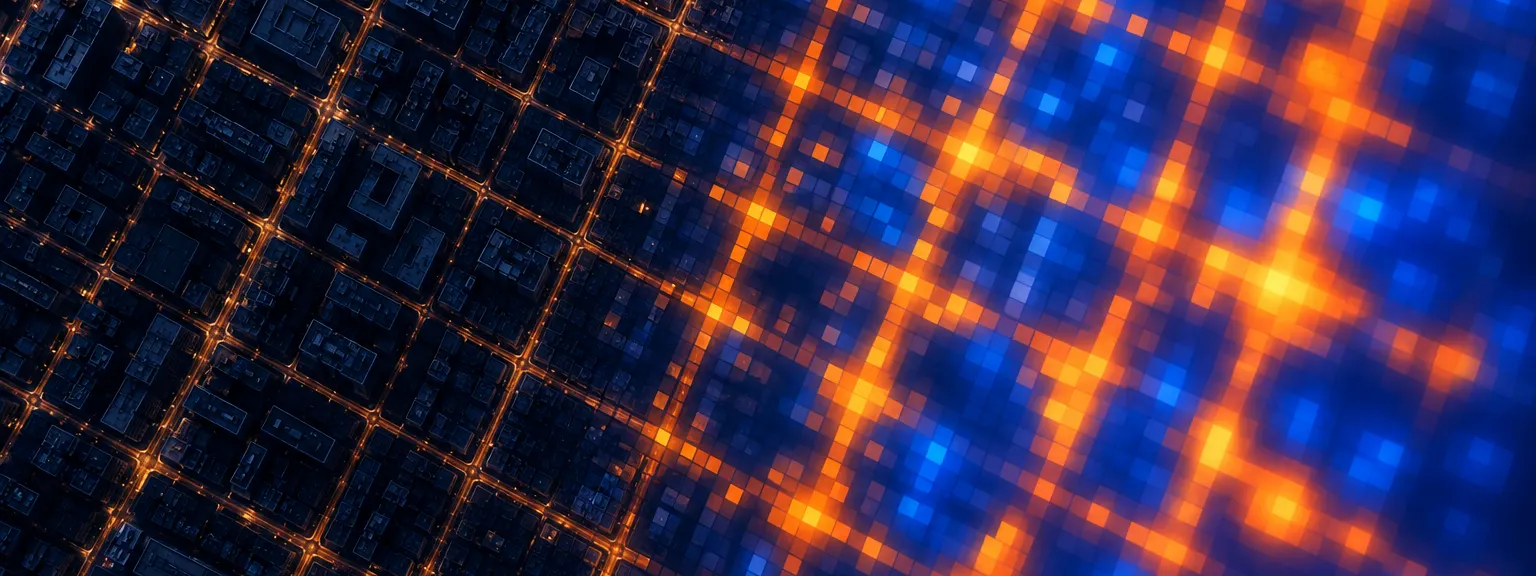
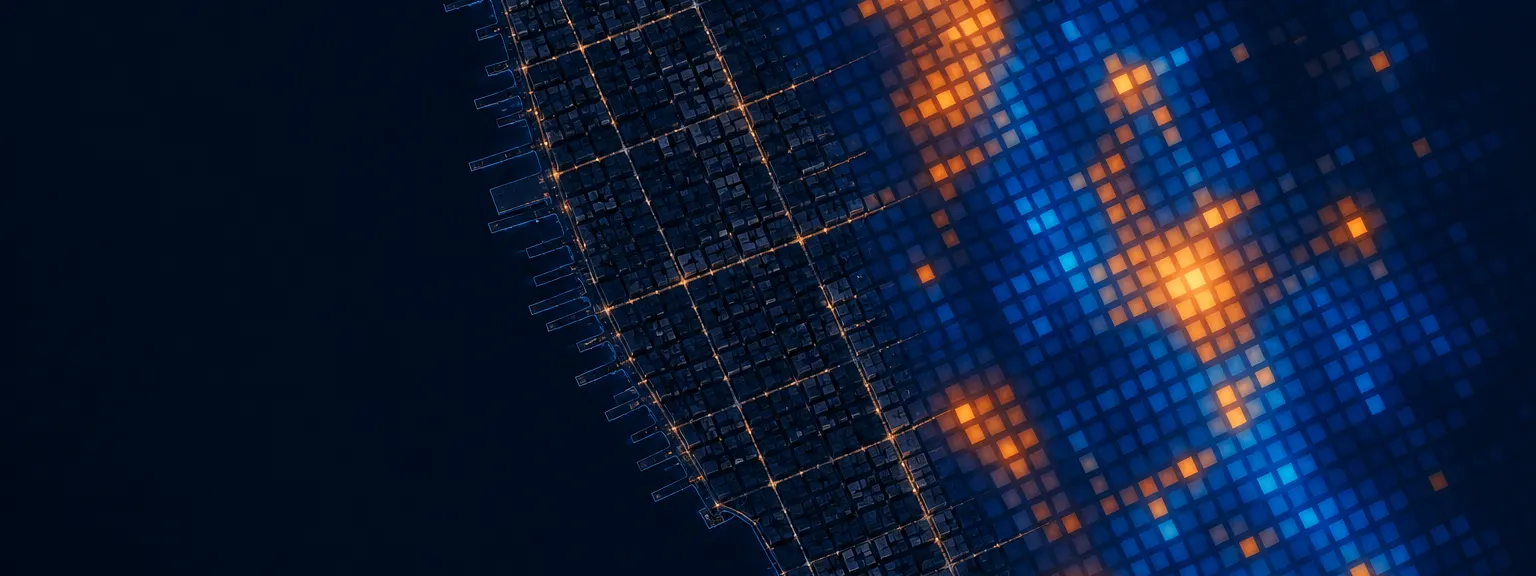
Write-up: new grid-to-heatmap illustration

diff --git a/docs/blog/index.html b/docs/blog/index.html
@@ -369,7 +369,7 @@ footer.end { max-width: var(--measure); margin: 56px auto 0; padding-top: 18px; 
 </ul>
 
 <figure class="strip breakout">
-  <img src="img/grid-heatmap.webp" width="1536" height="576" loading="lazy" alt="Illustration: a night aerial of city blocks on the left dissolving into glowing orange and blue squares on the right, like a demand heatmap.">
+  <img src="img/grid-heatmap.webp" width="1536" height="576" loading="lazy" alt="Illustration: Manhattan's west side and street grid at night, the blocks turning into glowing blue and orange squares to the east, like a demand heatmap with a few hot zones.">
   <figcaption>Illustration. Trip records arrive as taxi zones, so the simulator sees the city as a grid of zones with demand in each.</figcaption>
 </figure>
 
